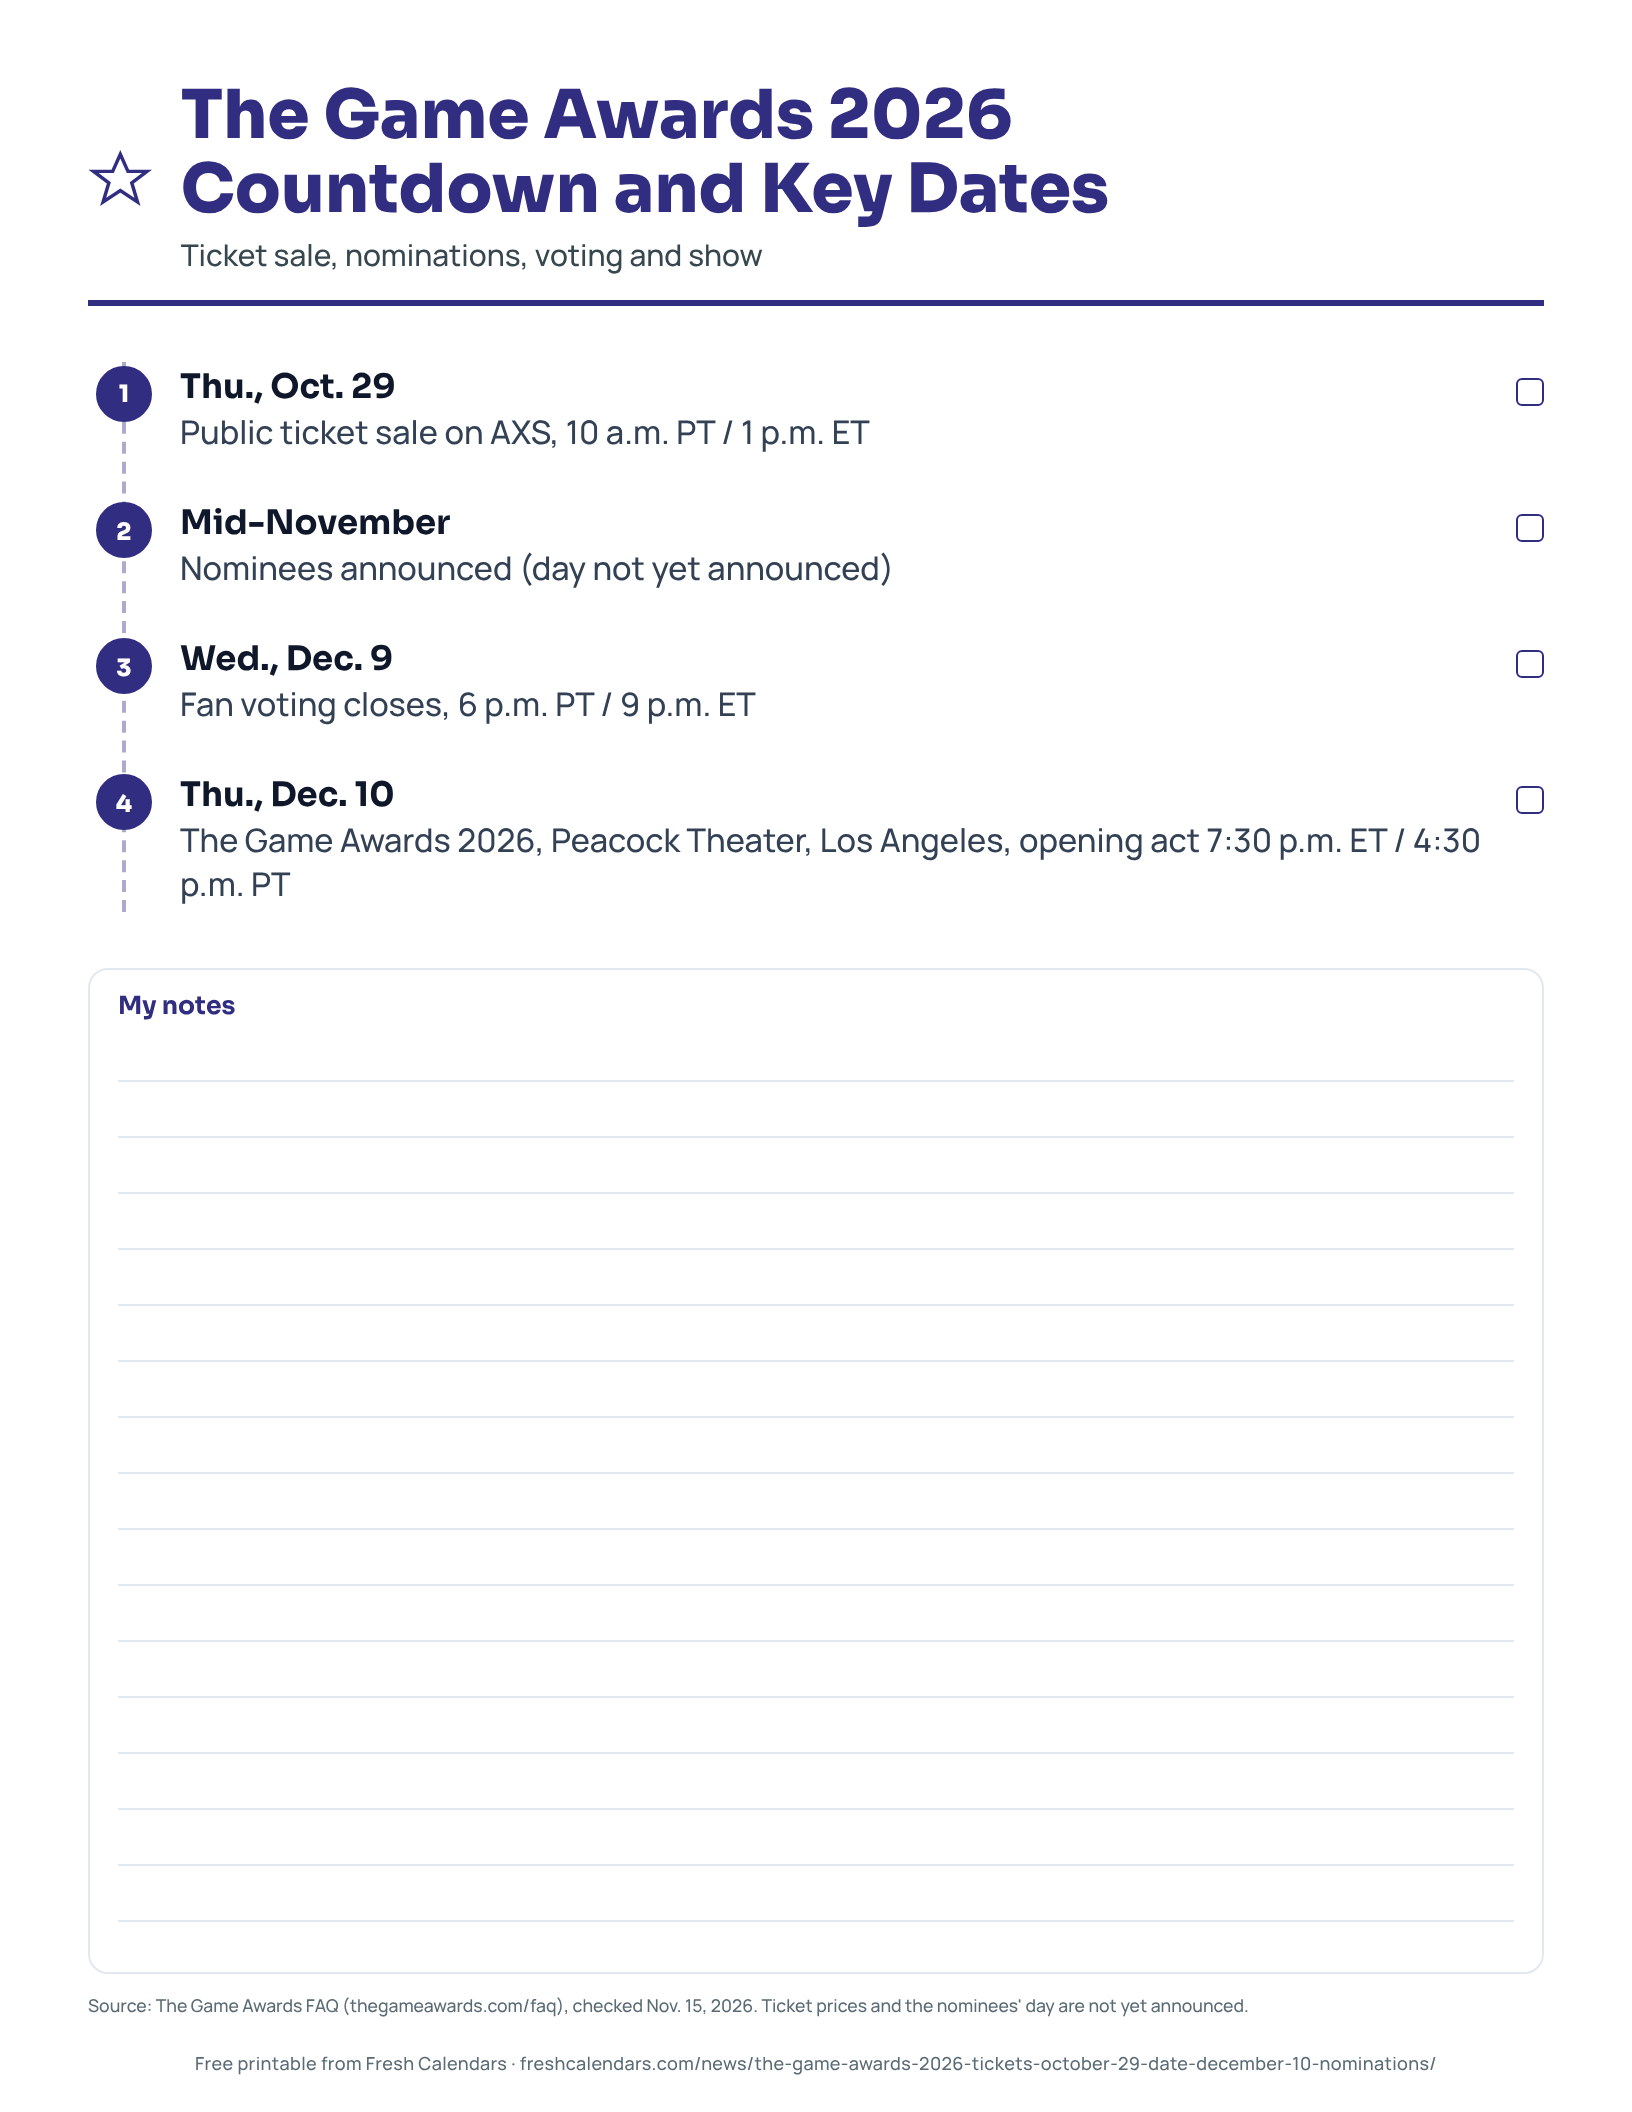
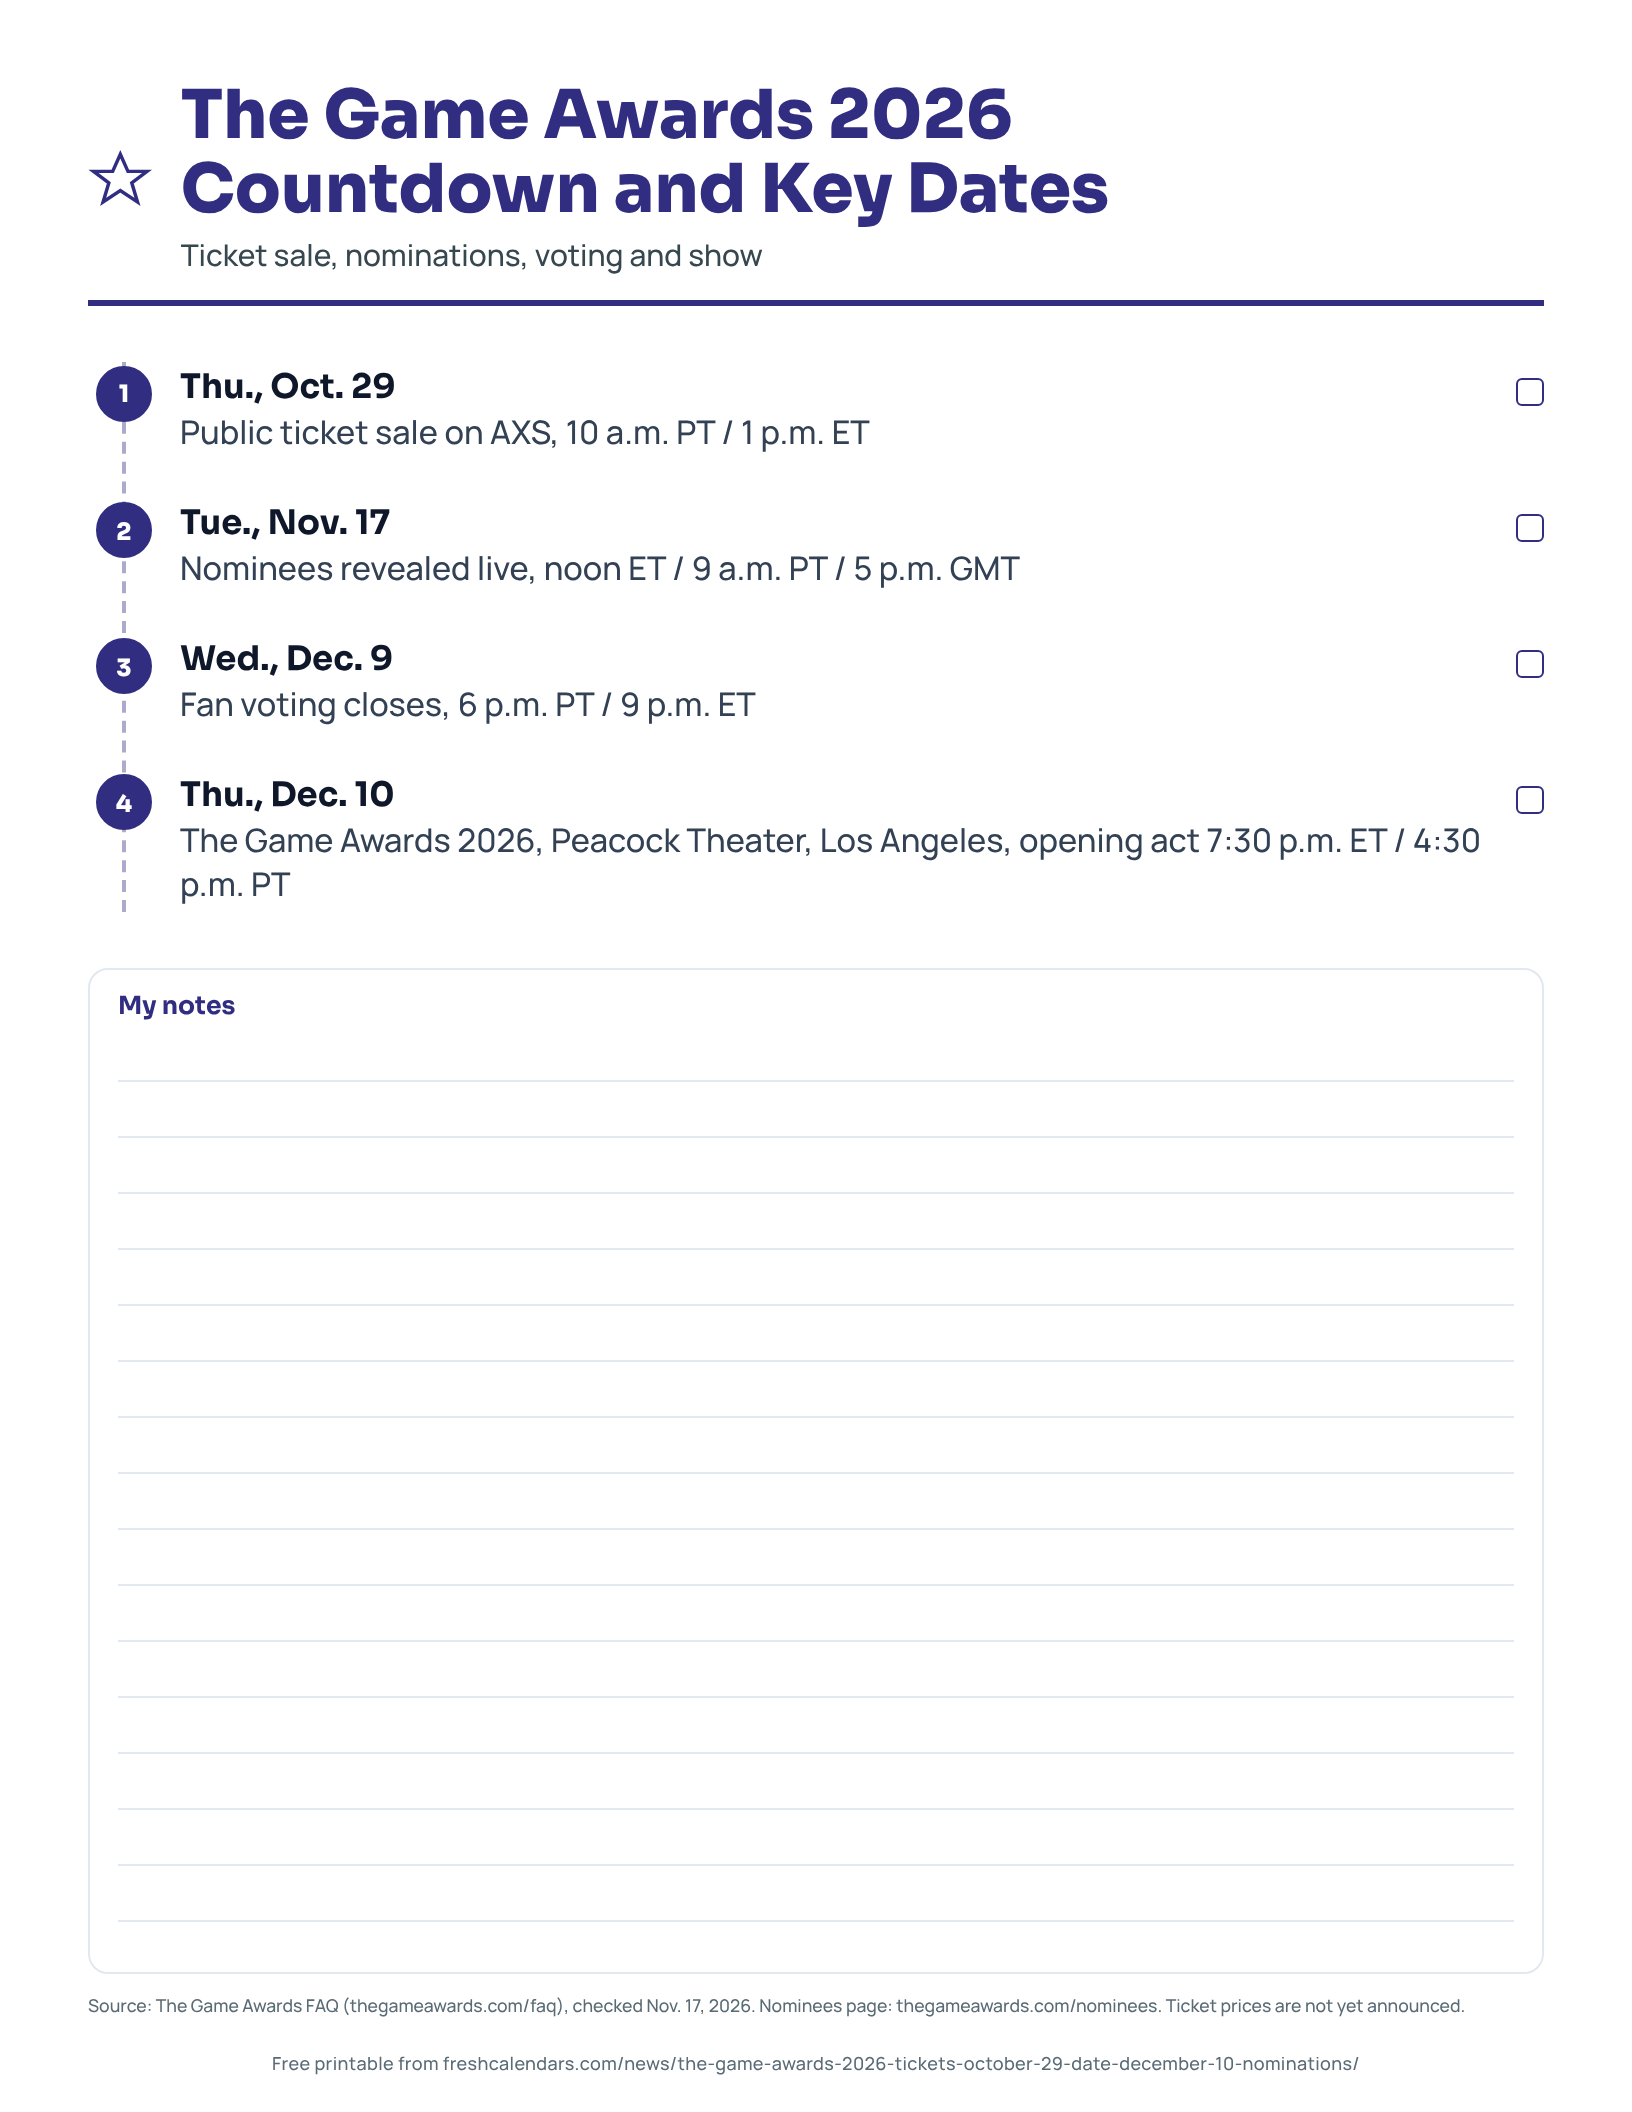
update: The Game Awards 2026 nominees reveal set for Tue. Nov. 17, noon ET
Claude-Session: https://claude.ai/code/session_01YBn8zcahfnzyaKNT2FymGy

Changed region(s): [[0.4062, 0.9375, 0.8125, 1.0], [0.125, 0.2188, 0.625, 0.2812], [0.1562, 0.9688, 0.375, 1.0]]

diff --git a/apps/news/src/content/articles/2026/10/the-game-awards-2026-tickets-october-29-date-december-10-nominations.md b/apps/news/src/content/articles/2026/10/the-game-awards-2026-tickets-october-29-date-december-10-nominations.md
@@ -3,7 +3,7 @@ title: "The Game Awards 2026 Tickets: AXS Sale Oct. 29, Show Dec. 10"
 description: "The Game Awards 2026 tickets went on sale Oct. 29 via AXS. The show is Thu., Dec. 10, 7:30 p.m. ET. Sale times by time zone and a countdown."
 type: news
 publishedAt: "2026-10-28T19:45:00-04:00"
-updatedAt: "2026-11-15T11:30:00-05:00"
+updatedAt: "2026-11-17T01:35:00-05:00"
 authors: [jessica-hartwell]
 category: gaming-tech
 keywords: ["the game awards 2026", "the game awards 2026 tickets", "the game awards 2026 date", "game awards nominations 2026 date", "when is the game awards 2026"]
@@ -22,7 +22,7 @@ hero:
 summary:
   - "Public tickets for The Game Awards 2026 went on sale Thursday, Oct. 29, 2026 at 10 a.m. Pacific Time (PT), which is 1 p.m. Eastern Time (ET), through AXS."
   - "The show is Thursday, Dec. 10, 2026, streaming live from the Peacock Theater in Los Angeles, 42 days after the ticket sale."
-  - "The Game Awards lists the 2026 nominees as coming mid-November and has not named an exact day."
+  - "The Game Awards reveals the 2026 nominees live on Tuesday, Nov. 17, 2026 at noon ET (9 a.m. PT, 5 p.m. GMT) on thegameawards.com."
   - "The show starts at 7:30 p.m. ET (4:30 p.m. PT) and fan voting closes Wednesday, Dec. 9 at 6 p.m. PT (9 p.m. ET); ticket prices, the fan voting opening date and the streaming platforms are not yet announced."
 faq:
   - q: "When do The Game Awards 2026 tickets go on sale?"
@@ -32,7 +32,7 @@ faq:
   - q: "What is the date of The Game Awards 2026?"
     a: "Thursday, Dec. 10, 2026, at the Peacock Theater in Los Angeles."
   - q: "When are the 2026 Game Awards nominations announced?"
-    a: "The Game Awards homepage says the 2026 nominees are coming mid-November. No exact day is announced yet."
+    a: "The Game Awards nominees page says to find out the nominees live on Tuesday, Nov. 17, 2026 at noon ET / 9 a.m. PT / 5 p.m. GMT."
   - q: "What time does The Game Awards 2026 start?"
     a: "The opening act starts at 7:30 p.m. ET / 4:30 p.m. PT on Thursday, Dec. 10, 2026, according to The Game Awards FAQ."
   - q: "When does fan voting close for The Game Awards 2026?"
@@ -52,6 +52,10 @@ sources:
   - title: "The Game Awards"
     url: "https://thegameawards.com/"
     publisher: "The Game Awards"
+  - title: "Nominees | The Game Awards"
+    url: "https://thegameawards.com/nominees"
+    publisher: "The Game Awards"
+    date: "2026-11-17"
   - title: "Voting Jury"
     url: "https://thegameawards.com/voting-jury"
     publisher: "The Game Awards"
@@ -79,10 +83,10 @@ assets:
     layout: timeline
     rows:
       - ["Thu., Oct. 29", "Public ticket sale on AXS, 10 a.m. PT / 1 p.m. ET"]
-      - ["Mid-November", "Nominees announced (day not yet announced)"]
+      - ["Tue., Nov. 17", "Nominees revealed live, noon ET / 9 a.m. PT / 5 p.m. GMT"]
       - ["Wed., Dec. 9", "Fan voting closes, 6 p.m. PT / 9 p.m. ET"]
       - ["Thu., Dec. 10", "The Game Awards 2026, Peacock Theater, Los Angeles, opening act 7:30 p.m. ET / 4:30 p.m. PT"]
-    note: "Source: The Game Awards FAQ (thegameawards.com/faq), checked Nov. 15, 2026. Ticket prices and the nominees' day are not yet announced."
+    note: "Source: The Game Awards FAQ (thegameawards.com/faq), checked Nov. 17, 2026. Nominees page: thegameawards.com/nominees. Ticket prices are not yet announced."
     description: "A one-page The Game Awards 2026 countdown with the Oct. 29 ticket sale, the Dec. 9 fan voting close and the Dec. 10 start time."
     alt: "The Game Awards 2026 countdown listing the ticket sale, fan voting close and show start time"
 downloads:
@@ -121,15 +125,14 @@ The Game Awards 2026 takes place on Thursday, Dec. 10, 2026, "streaming live fro
 
 ## When are the 2026 Game Awards nominations announced?
 
-The Game Awards homepage lists the 2026 nominees as "coming mid-November." No exact day is announced yet, so treat any specific date you see elsewhere as unconfirmed. The site says nominations are selected by a voting jury of over 100 leading media and influencer outlets across the globe.
+The Game Awards nominees page and homepage say "Find out the nominees live" on Tuesday, Nov. 17, 2026, at noon ET / 9 a.m. PT / 5 p.m. GMT. No nominees were listed there at 1:30 a.m. ET on Nov. 17. The site says nominations are selected by a voting jury of over 100 leading media and influencer outlets across the globe.
 
 For a comparison with another awards season, see our [Grammy nominations 2027 date](/news/grammy-nominations-2027-date-69th-grammys-february-7/) story.
 
 ## What is not announced yet?
 
-| Item | Status on Nov. 15, 2026 |
+| Item | Status on Nov. 17, 2026 |
 |---|---|
-| Exact nominations day | Not yet announced (the nominees page says "coming mid-November") |
 | Fan voting opening date | Not yet announced (closes Dec. 9, 6 p.m. PT) |
 | Streaming platforms | Free "across all major streaming services"; no platform is named |
 | Pre-show | Not yet announced |
@@ -141,4 +144,4 @@ In 2025, Game of the Year went to Clair Obscur: Expedition 33 from Sandfall Inte
 
 ## Free The Game Awards 2026 countdown
 
-Our one-page printable lists the Oct. 29 ticket sale, mid-November nominations, the Dec. 9 fan voting close and the Dec. 10 start time. Mark them on your [November 2026 printable calendar](/november-calendars.html) and [December 2026 printable calendar](/december-calendars.html). Related gaming dates are in our [Grand Theft Auto (GTA) 6 countdown](/news/gta-6-countdown-release-time-by-time-zone/) and [PlayStation Plus November 2026 games](/news/playstation-plus-november-2026-games-dead-island-2-tomb-raider-monster-train-2/) stories.
+Our one-page printable lists the Oct. 29 ticket sale, Nov. 17 nominations, the Dec. 9 fan voting close and the Dec. 10 start time. Mark them on your [November 2026 printable calendar](/november-calendars.html) and [December 2026 printable calendar](/december-calendars.html). Related gaming dates are in our [Grand Theft Auto (GTA) 6 countdown](/news/gta-6-countdown-release-time-by-time-zone/) and [PlayStation Plus November 2026 games](/news/playstation-plus-november-2026-games-dead-island-2-tomb-raider-monster-train-2/) stories.

diff --git a/docs/desk/w3.md b/docs/desk/w3.md
@@ -1055,7 +1055,7 @@ Time and clock changes, sky events, calendar guides, all sports, entertainment, 
 
 - [x] **upd-costco-holiday-hours-closures-2026-2027** (done 2026-11-02: Costco's 2026 Thanksgiving closure notice added; recheck Christmas Eve hours in December) Position 9 with 1,102 impressions. Check Thanksgiving, Christmas and New Year's hours against Costco's own page.
 - [x] **upd-new-on-prime-video-november-2026-rings-of-power-season-3** (done 2026-11-10, The Chosen Season 6 Nov. 15 now from thechosen.tv and the Prime Video and 5&2 Studios release (three episodes, then weekly through Dec. 6) instead of "reported"; Rings of Power Season 3 drops Nov. 11, 18 and 25 from Amazon; The Greatest streaming now; I Play Rocky in select theaters, wide later in November, still no Prime Video date) Self-found (date within 30 days, last checked Oct. 26).
-- [ ] **upd-the-game-awards-2026-tickets-october-29-date-december-10-nominations** (last done 2026-11-15 11:30 ET: official FAQ start time 7:30 p.m. ET / 4:30 p.m. PT and fan voting close Wed. Dec. 9, 6 p.m. PT replace "not yet announced" in description, summary, FAQ, lede, show section, table, printable and key dates; FAQ added to sources; nominees day, voting opening, platforms, pre-show and ticket prices still not announced) After Dec. 10. Add the winners by category from thegameawards.com and the world premieres shown, as a silent update; title unchanged unless the audit allows (owner's list: "Game Awards winners").
+- [x] **upd-the-game-awards-2026-tickets-october-29-date-december-10-nominations** (done 2026-11-17, nominees reveal set for Tue. Nov. 17, noon ET / 9 a.m. PT / 5 p.m. GMT per thegameawards.com/nominees, replaces "mid-November, no exact day" in summary, FAQ, nominations section, not-announced table, printable and key dates; nominees page added to sources; earlier: last done 2026-11-15 11:30 ET: official FAQ start time 7:30 p.m. ET / 4:30 p.m. PT and fan voting close Wed. Dec. 9, 6 p.m. PT replace "not yet announced" in description, summary, FAQ, lede, show section, table, printable and key dates; FAQ added to sources; nominees day, voting opening, platforms, pre-show and ticket prices still not announced) After Dec. 10. Add the winners by category from thegameawards.com and the world premieres shown, as a silent update; title unchanged unless the audit allows (owner's list: "Game Awards winners").
 - [ ] **upd-college-football-bowl-schedule-2026-27-dates-times-tv-cfp** From Dec. 6 (Selection Day) to Jan. 19. Add the bowl matchups as announced, then final scores as they are played, from each bowl's or the CFP's official page (owner's list: bowl results, CFP bracket).
 - [ ] **upd-college-football-playoff-rankings-2026-schedule-dates-times** On Dec. 6-7. Add the 12-team bracket and first-round dates and sites from collegefootballplayoff.com.
 - [x] **upd-golden-globes-oscars-2027-dates-nominations-how-to-watch-awards-calendar** (done 2026-11-12, Critics Choice host Janelle James and Santa Monica venue added from the Critics Choice Association's Oct. 29 release, source added; all other dates rechecked unchanged; BAFTA bafta.org 403, Annie Awards date still not on annieawards.org; earlier 2026-11-11 11:30 ET: Academy Scientific and Technical Awards Tue. April 20, 2027 and the Nov. 12 final submission deadline from oscars.org key dates added to tables, key dates and printable (17 rows); Grammy source title corrected to the page title; BAFTA still bafta.org 403, Annie Awards date only in newsrooms (Cartoon Brew, Outlook India), not added; no nominations times posted; earlier 2026-11-10 15:20 ET: 2027 Writers Guild Awards Sat. Feb. 13 from wga.org added to table, key dates, source list and printable (16 rows); BAFTA still bafta.org 403, no Oscar, Grammy or Golden Globe nominations time posted, Critics Choice page has no new date; earlier 2026-11-08 19:25 ET: Golden Globes airtime corrected to 7:30-9:30 p.m. ET / 4:30-6:30 p.m. PT per the CBS press page (was 8-11 p.m.), 42nd Film Independent Spirit Awards Sat. March 6, 2027, Hollywood Palladium added from filmindependent.org (15 rows); BAFTA Feb. 21 / Jan. 19 only on Awards Watch, bafta.org 403; Grammy 7:45 a.m. ET nominations time only on ABC and GMA (same owner); earlier: Directors Guild of America nominations Jan. 7 and Awards Jan. 30 at the Beverly Hilton, Producers Guild theatrical nominations Jan. 8 and Awards Feb. 27, from dga.org and producersguild.org, in table, key dates and printable (14 rows); BAFTA date, Grammy and Oscar announcement times still not on official pages, bafta.org 403) On the Golden Globe nominations day (check goldenglobes.com) and the Oscar nominations day. Add the nominations date, time and the broadcaster.
